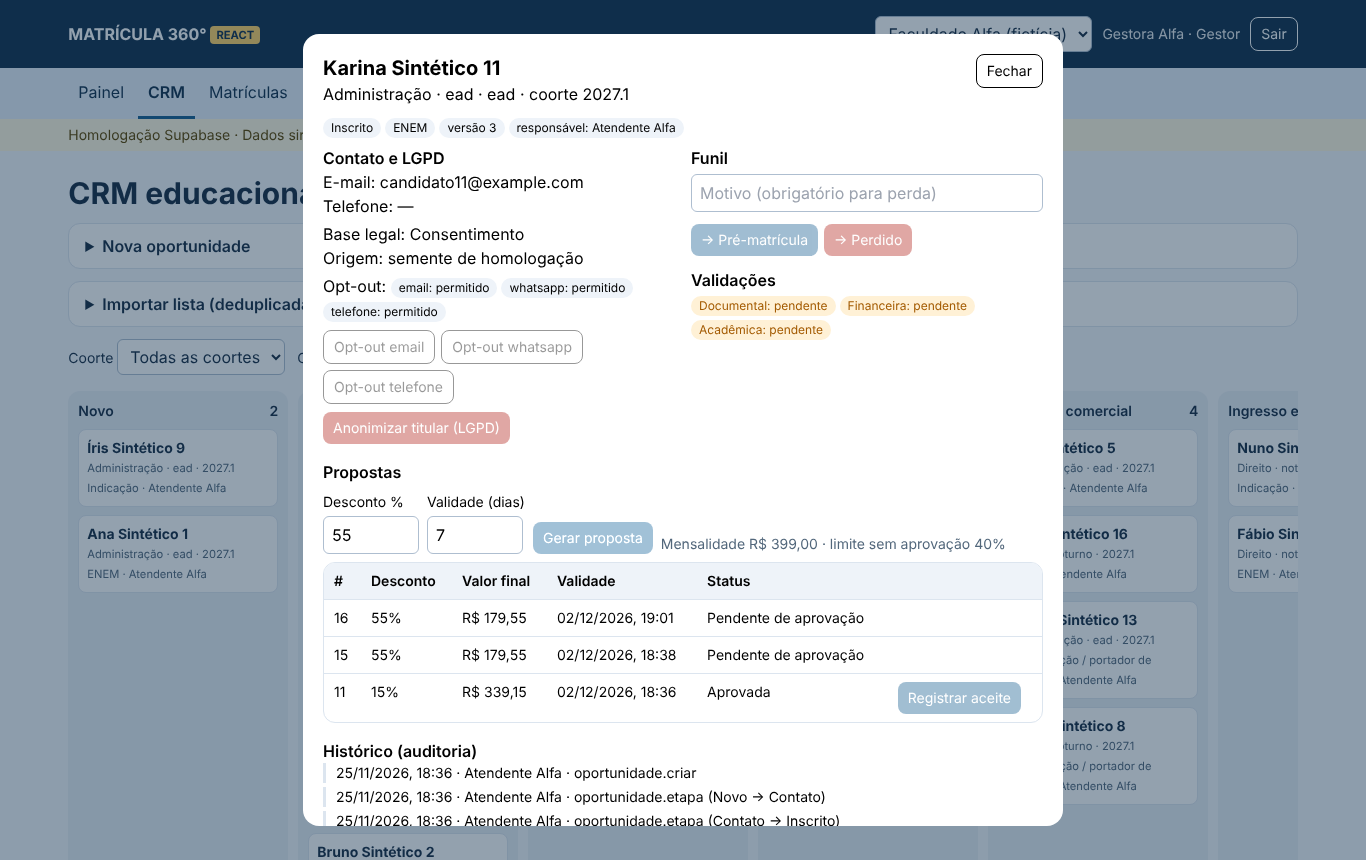
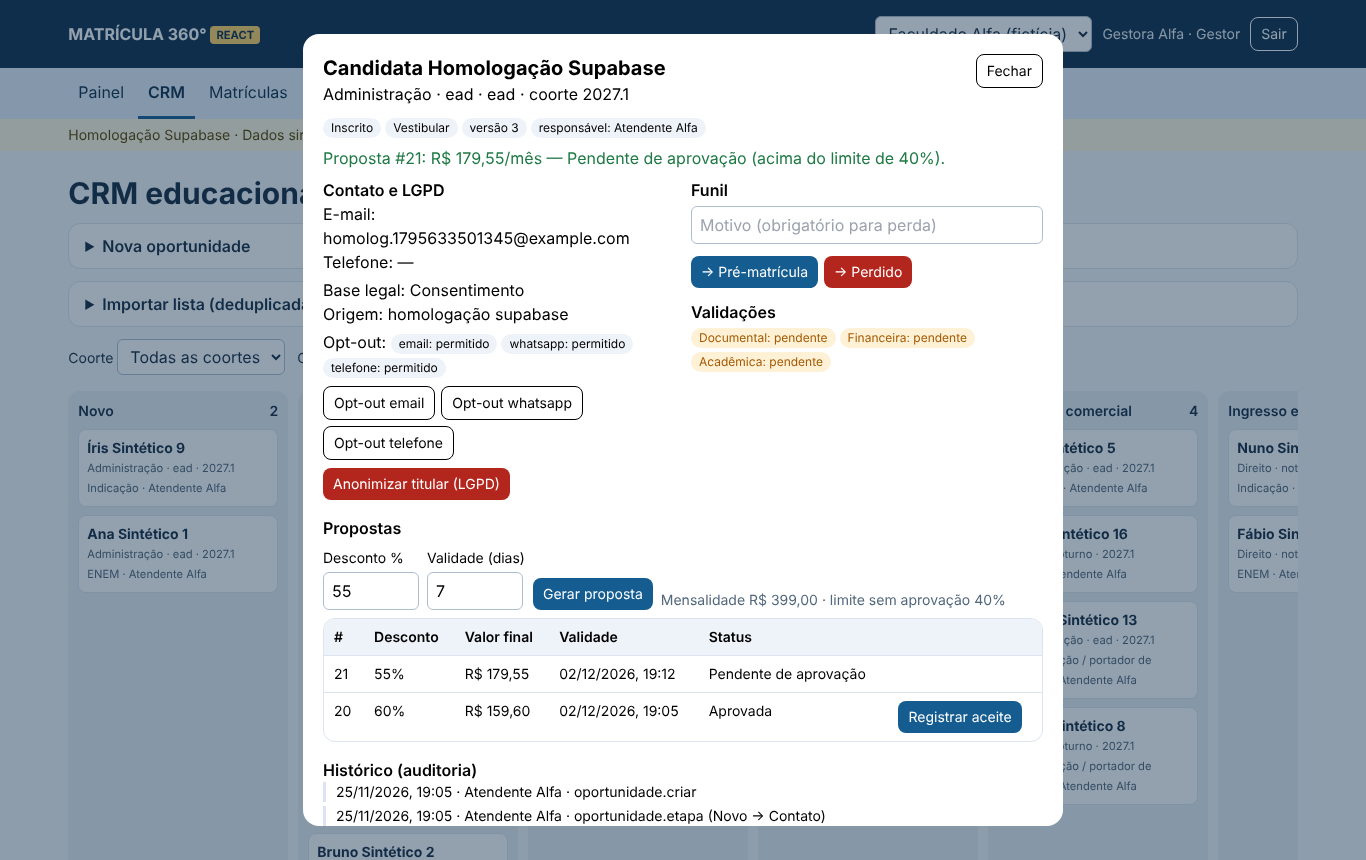
Prepara publicação da homologação no Render (matricula360.somosfato.com.br)
- web: config.json gerado no build só com a chave publicável (recusa a
  secreta); noindex; mensagem clara se a configuração faltar; flags do
  React Router v7.
- scripts/servir-estatico.mjs simula a hospedagem estática do Render;
  homologação nessa simulação: 66/66. Ataques no roteiro passam a ir
  direto ao Supabase com a sessão do navegador.
- docs/PUBLICAR-RENDER.md: passo a passo, cabeçalhos, domínio, Supabase
  e alerta sobre o Publish Directory do site institucional antes do merge.

Claude-Session: https://claude.ai/code/session_01LuDyPyXt65cYhfcPrp74r2

diff --git a/matricula360/web/src/lib/api.ts b/matricula360/web/src/lib/api.ts
@@ -10,7 +10,11 @@ let configuracao: Config | null = null;
 
 export async function iniciar(): Promise<Config> {
   if (configuracao) return configuracao;
-  const cfg = await fetch('/config.json').then((r) => r.json() as Promise<Config>);
+  const r = await fetch('/config.json');
+  const cfg = (r.ok && (r.headers.get('content-type') || '').includes('json')
+    ? await r.json().catch(() => null)
+    : null) as Config | null;
+  if (!cfg) throw new ErroApi('Configuração do sistema ausente (config.json). Verifique a publicação.', 500);
   if (cfg.modo !== 'supabase' || !cfg.supabase_url || !cfg.supabase_chave_publicavel) {
     throw new ErroApi('Esta interface exige o modo Supabase (M360_SUPABASE_URL e M360_SUPABASE_CHAVE_PUBLICAVEL).', 500);
   }

diff --git a/matricula360/web/index.html b/matricula360/web/index.html
@@ -3,6 +3,7 @@
   <head>
     <meta charset="utf-8" />
     <meta name="viewport" content="width=device-width, initial-scale=1" />
+    <meta name="robots" content="noindex, nofollow" />
     <title>Matrícula 360° · Homologação</title>
   </head>
   <body class="bg-fundo text-texto">

diff --git a/matricula360/web/src/main.tsx b/matricula360/web/src/main.tsx
@@ -6,7 +6,7 @@ import './estilo.css';
 
 createRoot(document.getElementById('raiz')!).render(
   <StrictMode>
-    <BrowserRouter>
+    <BrowserRouter future={{ v7_startTransition: true, v7_relativeSplatPath: true }}>
       <App />
     </BrowserRouter>
   </StrictMode>,

diff --git a/matricula360/docs/PUBLICAR-RENDER.md b/matricula360/docs/PUBLICAR-RENDER.md
@@ -1,0 +1,65 @@
+# Publicar a homologação no Render — `matricula360.somosfato.com.br`
+
+Site estático no Render, **separado** do site institucional (que não é alterado).
+Dados sintéticos. Só entra quem tem conta (login pelo Supabase Auth; cadastro aberto desligado).
+Validado antes da publicação com `M360_ESTATICO=1 npm run homologar:supabase`, que simula esta hospedagem: **66/66**.
+
+## 1. Criar o serviço (painel do Render)
+
+**New → Static Site** → conectar o repositório `vrcmeirelles-del/somos-fato`.
+
+| Campo | Valor |
+|---|---|
+| Name | `matricula360-homologacao` |
+| Branch | `ccr-c2153ae4-iykoe6` (branch do PR #1; depois do merge, trocar para `main`) |
+| Root Directory | `matricula360/web` |
+| Build Command | `npm ci && npm run build` |
+| Publish Directory | `dist` |
+
+**Environment Variables:**
+
+| Variável | Valor |
+|---|---|
+| `NODE_VERSION` | `22` |
+| `M360_SUPABASE_URL` | `https://jbimijcvvekomovodfze.supabase.co` |
+| `M360_SUPABASE_CHAVE_PUBLICAVEL` | a chave **publicável** atual (`sb_publishable_...`) |
+
+O build **recusa** qualquer chave que não seja publicável. A chave secreta nunca vai para o Render.
+
+## 2. Rotas (Redirects/Rewrites)
+
+| Source | Destination | Action |
+|---|---|---|
+| `/*` | `/index.html` | Rewrite |
+
+## 3. Cabeçalhos de segurança (Headers), caminho `/*`
+
+| Nome | Valor |
+|---|---|
+| `Content-Security-Policy` | `default-src 'self'; script-src 'self'; style-src 'self'; img-src 'self' data:; connect-src 'self' https://jbimijcvvekomovodfze.supabase.co; frame-ancestors 'none'; base-uri 'none'; form-action 'self'` |
+| `X-Content-Type-Options` | `nosniff` |
+| `X-Frame-Options` | `DENY` |
+| `Referrer-Policy` | `no-referrer` |
+| `Permissions-Policy` | `camera=(), microphone=(), geolocation=()` |
+| `X-Robots-Tag` | `noindex, nofollow` |
+
+## 4. Domínio
+
+1. No serviço, abra **Settings → Custom Domains → Add** e informe `matricula360.somosfato.com.br`.
+2. O Render mostra um destino (`<algo>.onrender.com`).
+3. Onde o DNS do somosfato.com.br é gerenciado, crie o registro **CNAME** `matricula360` → esse destino.
+4. O certificado HTTPS é emitido automaticamente pelo Render.
+
+## 5. Supabase
+
+Em **Authentication → URL Configuration → Site URL**, informe `https://matricula360.somosfato.com.br`. Os e-mails de convite e de redefinição de senha passam a apontar para lá.
+
+## Antes de fazer merge do PR #1 no `main`
+
+Confira o serviço **atual** do somosfato.com.br no Render: o **Publish Directory** deve ser `dist`.
+- Se for `.` (a raiz do repositório), o merge exporia `matricula360/` (código, SQL e documentos) no site institucional.
+- Nesse caso, ajuste o serviço para `dist` antes do merge.
+
+## Reversão
+
+Suspender ou excluir o serviço `matricula360-homologacao` no Render e remover o CNAME. O site institucional não é afetado.
